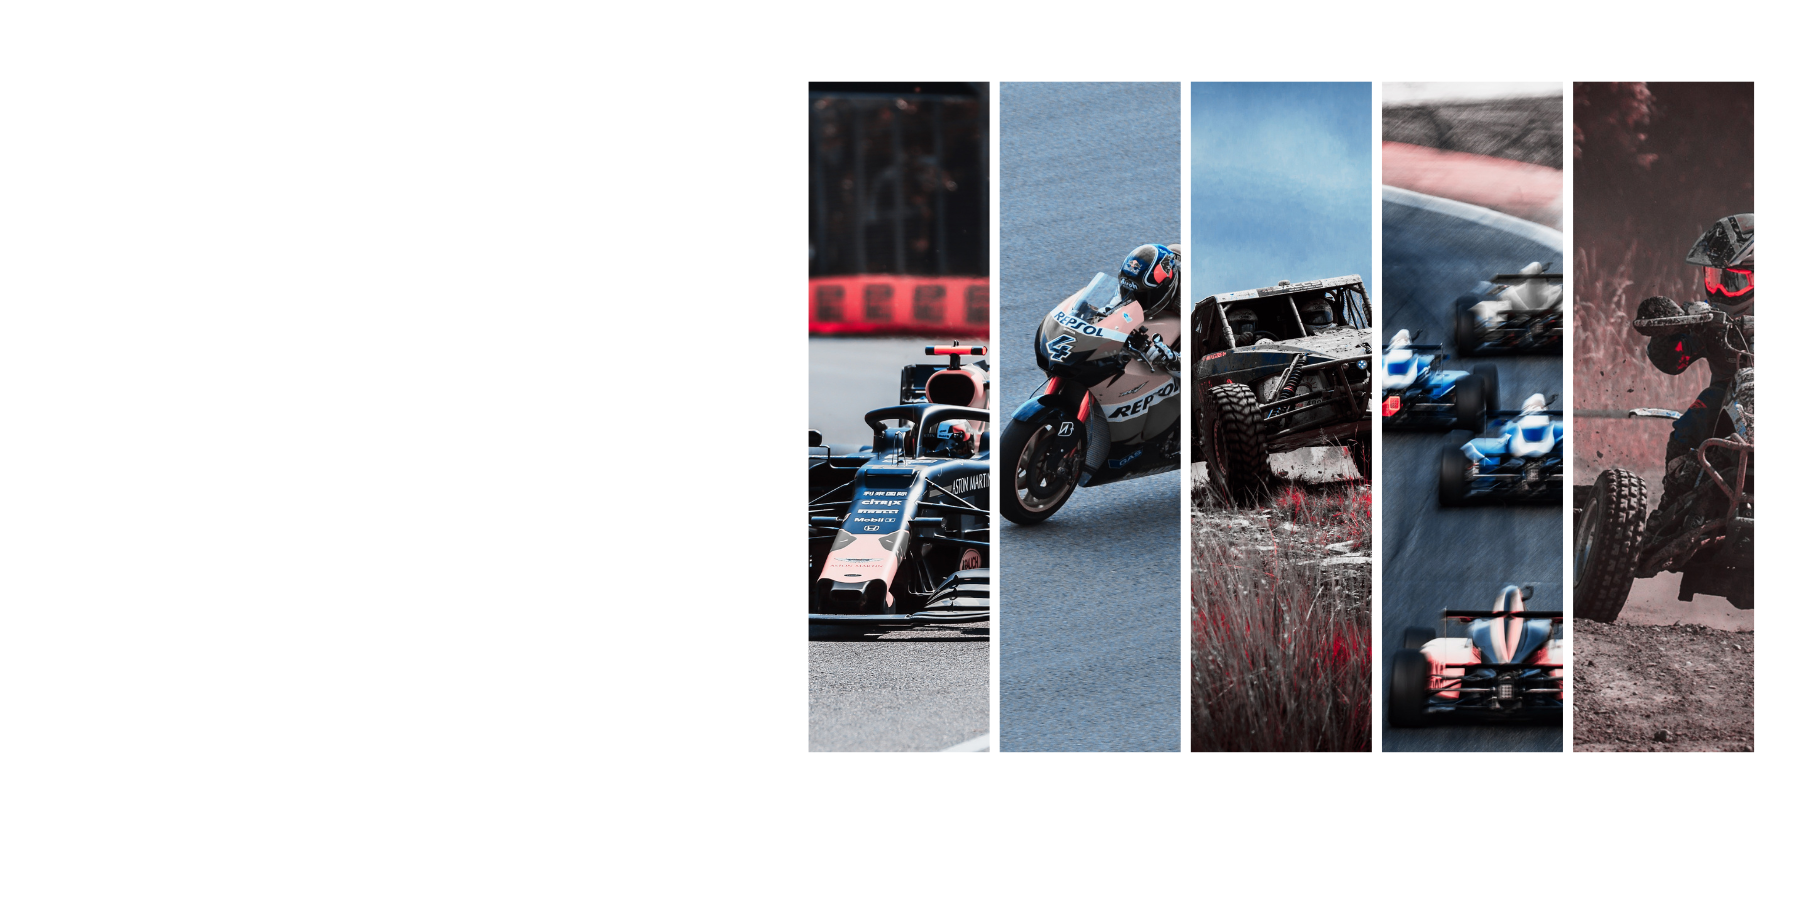
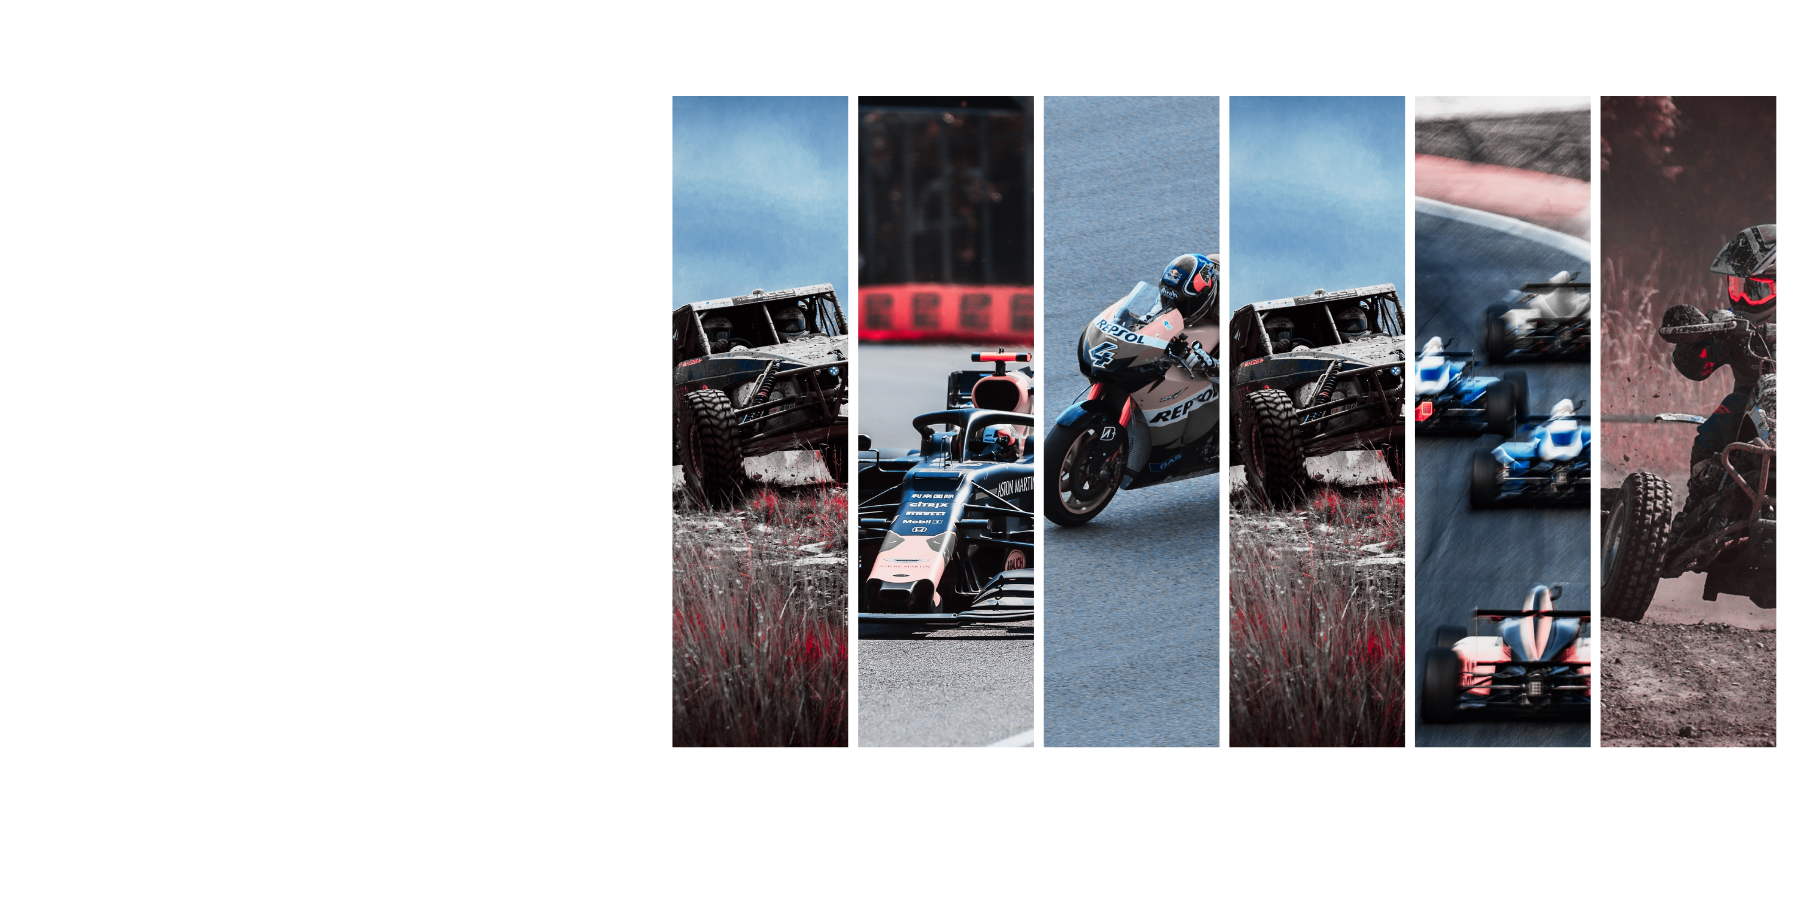
organizando imagens e disposição dos elementos

Changed region(s): [[0.3733, 0.0622, 0.9956, 0.84]]

diff --git a/style.css b/style.css
@@ -7,7 +7,7 @@
     --branco-principal: #FFFFFF;
     --cinza-secundario: #C0C0C0;
     --botao-laranja: rgb(255,77,0);
-    --cor-de-fundo: rgb(11,11,11);
+    --cor-de-fundo: rgb(0, 0, 0);
     --botao-laranja-efeito: rgb(255, 119, 60);
     --fonte-principal: 'Inter', sans-serif;
 }
@@ -16,12 +16,12 @@ body {
     background-color: var(--cor-de-fundo);
     color: var(--branco-principal);
     font-family: var(--fonte-principal);
-    font-size: 16px;
+    font-size: 18px;
     font-weight: 400;
 }
 
 .principal {
-    background-image: url(img/backgroundRaceTv+3.png);
+    background-image: url(img/backgroundRaceTv+.png);
     background-repeat: no-repeat;
     background-size: contain;
     background-position: right;
@@ -40,5 +40,5 @@ body {
 }
 
 .container__imagem {
-    width: 50%;
+    width: 60%;
 }

diff --git a/index.html b/index.html
@@ -13,8 +13,8 @@
 <body>
     <section class="principal container">
         <div class="container__caixa">
-            <h1 class="container__titulo"> RACE TV+<br>A sua plataforma de conteúdo motorsport ao vivo!<br>Assista o conteúdo de onde estiver!</h1>
             <img class="container__imagem" src="img/Racetv+Logo.png" alt="RaceTv Logo">
+            <h1 class="container__titulo"> A sua plataforma de conteúdo motorsport!<br>Assista de onde estiver.</h1>
         </div>
     </section>
 
